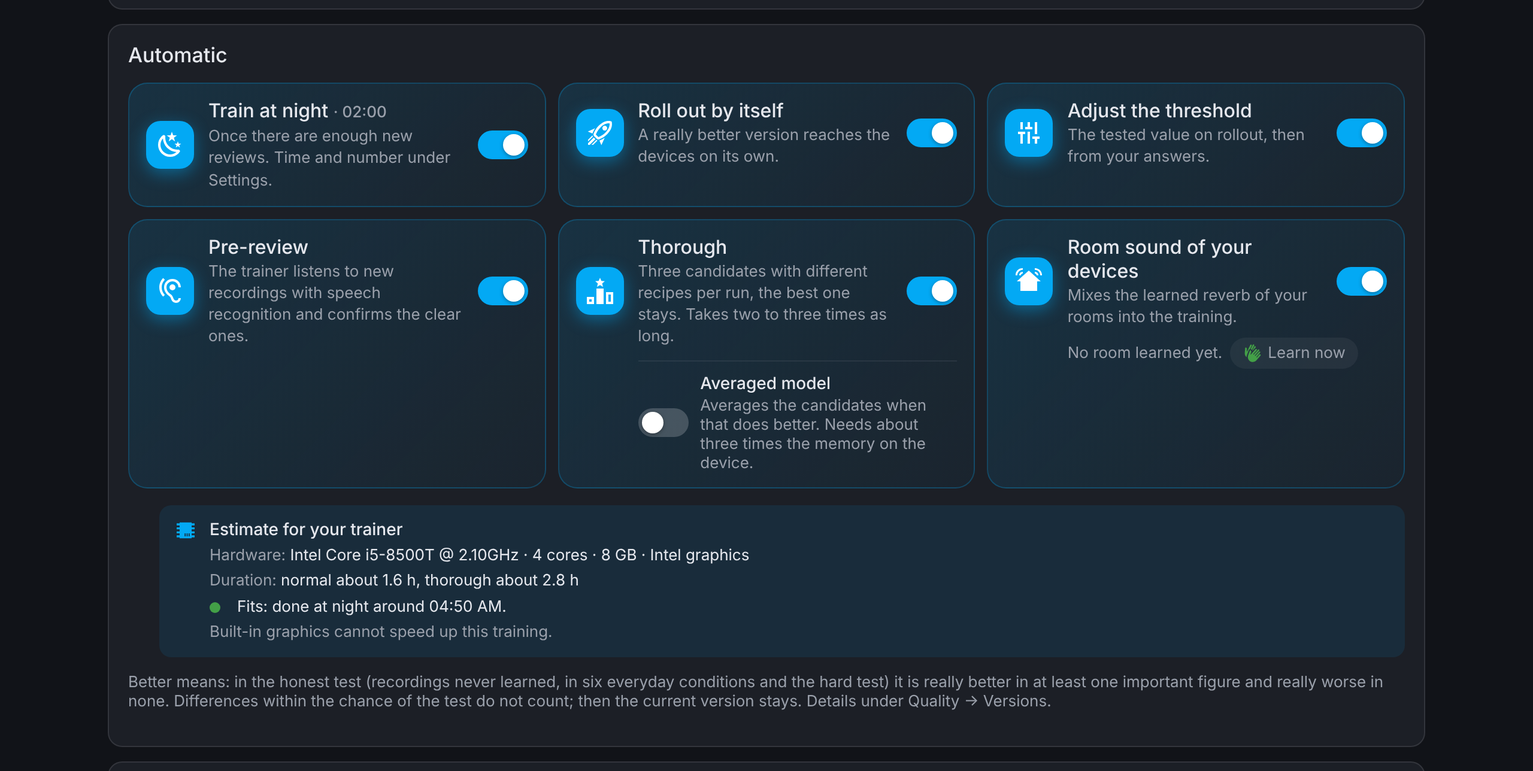
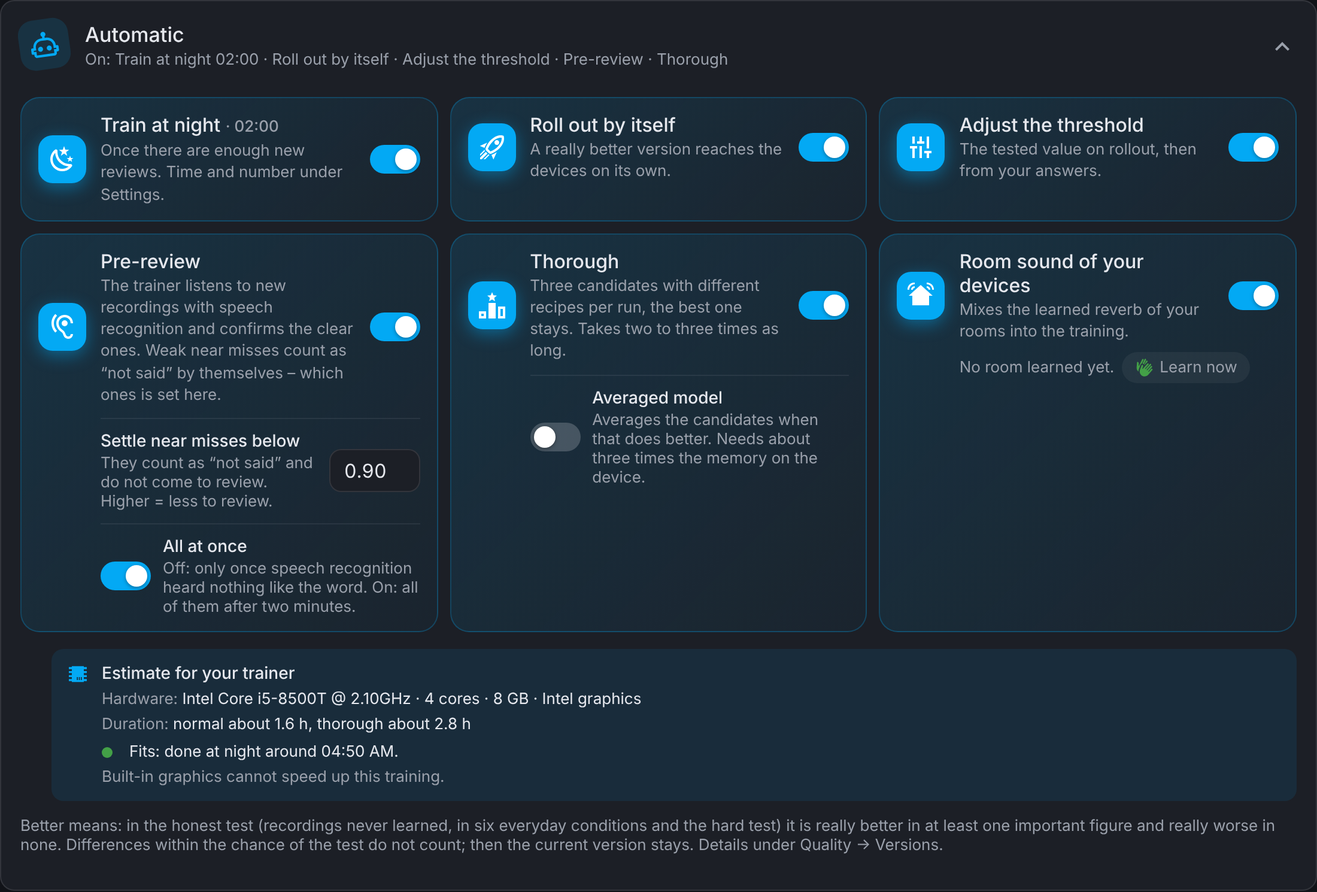
1.0.51: choose what comes to review (#66)
* 1.0.51: choose what comes to review

Two new settings per word under Training -> Automatic -> Pre-review:
- beinahe_grenze (0.50-0.99, default 0.80): near misses of a device
  below this score are settled as "not said" by the pre-review.
- beinahe_sofort: settle them all after two minutes without waiting
  for speech recognition (default off: as before, only when neither the
  word nor anything like it was heard).

Always left for the user: real wakes, a near miss right before a wake,
one in which the word itself was heard. A change applies to the waiting
recordings right away; the regular fetch catches up on fresh ones.
Both values are validated on the server like every other setting.

Claude-Session: https://claude.ai/code/session_015s6FHN9RtFzjRTkpWD3kXZ

* README: Wake Word Studio is in the HACS default list

Claude-Session: https://claude.ai/code/session_015s6FHN9RtFzjRTkpWD3kXZ

* Shorter texts for the pre-review settings, README image

Claude-Session: https://claude.ai/code/session_015s6FHN9RtFzjRTkpWD3kXZ

---------

diff --git a/custom_components/sprachmodell/frontend/sprachmodell-texte.js b/custom_components/sprachmodell/frontend/sprachmodell-texte.js
@@ -173,7 +173,7 @@ export const TEXTE = {
     nv_leer: 'Dein Wort', nv_hilfe: 'Schreib unten dein Aktivierungswort, hier erscheint es.', nv_da: 'So wird es aussehen. Die KI lernt es aus deinen Aufnahmen.', nv_erschaffen: 'Dein Aktivierungswort entsteht …',
     es_allgemein_kurz: 'Uhrzeit, Erinnerungen, Aufbewahren, Personen', es_senden_kurz: 'Geräte schicken ihre Aufwach-Aufnahmen direkt ans Studio', es_ablage_kurz: 'Wo Aufnahmen und Modelle liegen',
     ws_sammeln: 'Sammeln', ws_sammeln_wert: '{n} Aufnahmen', ws_pruefen: 'Prüfen', ws_pruefen_offen: '{n} warten auf dich', ws_pruefen_fertig: 'alles geprüft', ws_training: 'Training', ws_training_nachts: 'nachts um {u}', ws_training_hand: 'von Hand', ws_geraet: 'Auf den Geräten', ws_geraet_wert: 'v{v} auf {n} Geräten', ws_geraet_noch: 'noch kein Modell', ws_mehr: 'Wie genau?',
-    sw_nachts: 'Nachts trainieren', sw_nachts_text: 'Wenn genug neue Bewertungen da sind. Uhrzeit und Anzahl unter Einstellungen.', sw_einspielen: 'Selbst einspielen', sw_einspielen_text: 'Eine wirklich bessere Version kommt von allein auf die Geräte.', sw_schwelle: 'Schwelle selbst anpassen', sw_schwelle_text: 'Beim Einspielen der getestete Wert, danach aus deinen Antworten.', sw_vorpruefen: 'Vorprüfen', sw_vorpruefen_text: 'Der Trainer hört neue Aufnahmen mit Spracherkennung an und bestätigt die klaren. Beinahe-Treffer unter 0,80, in denen weder das Wort noch etwas Ähnliches zu hören ist, zählen selbst als „nicht gesagt“.', sw_gruendlich: 'Gründlich', sw_gruendlich_text: 'Drei Kandidaten mit verschiedenen Rezepten pro Lauf, der beste bleibt. Dauert zwei- bis dreimal so lange.', sw_mitteln: 'Gemitteltes Modell', sw_mitteln_text: 'Mittelt die Kandidaten, wenn das besser ist. Braucht etwa dreimal so viel Speicher auf dem Gerät.', sw_raumklang: 'Raumklang deiner Geräte', sw_raumklang_text: 'Mischt den angelernten Nachhall deiner Räume ins Training.',
+    sw_nachts: 'Nachts trainieren', sw_nachts_text: 'Wenn genug neue Bewertungen da sind. Uhrzeit und Anzahl unter Einstellungen.', sw_einspielen: 'Selbst einspielen', sw_einspielen_text: 'Eine wirklich bessere Version kommt von allein auf die Geräte.', sw_schwelle: 'Schwelle selbst anpassen', sw_schwelle_text: 'Beim Einspielen der getestete Wert, danach aus deinen Antworten.', sw_vorpruefen: 'Vorprüfen', sw_vorpruefen_text: 'Der Trainer hört neue Aufnahmen mit Spracherkennung an und bestätigt die klaren. Schwache Beinahe-Treffer zählen selbst als „nicht gesagt“ – welche, stellst du hier ein.', sw_beinahe_grenze: 'Beinahe-Treffer selbst erledigen unter', sw_beinahe_grenze_text: 'Sie zählen als „nicht gesagt“ und kommen nicht zur Prüfung. Höher = weniger zu prüfen.', sw_beinahe_sofort: 'Alle sofort', sw_beinahe_sofort_text: 'Aus: erst, wenn die Spracherkennung nichts Ähnliches gehört hat. An: alle nach zwei Minuten.', sw_gruendlich: 'Gründlich', sw_gruendlich_text: 'Drei Kandidaten mit verschiedenen Rezepten pro Lauf, der beste bleibt. Dauert zwei- bis dreimal so lange.', sw_mitteln: 'Gemitteltes Modell', sw_mitteln_text: 'Mittelt die Kandidaten, wenn das besser ist. Braucht etwa dreimal so viel Speicher auf dem Gerät.', sw_raumklang: 'Raumklang deiner Geräte', sw_raumklang_text: 'Mischt den angelernten Nachhall deiner Räume ins Training.',
     es_aufbewahren: 'Unbewertete Aufnahmen nach so vielen Tagen löschen', es_personen: 'Personen (mit Komma getrennt, leer = Personen aus Home Assistant)',
     es_senden_behalten_aus_kurz: 'Aufnahmen behalten ist aus', es_senden_an_wahl: 'Senden an', es_senden_ziel_aus: 'Aus (Studio holt ab)', es_senden_einrichten: 'Einrichten', es_schalter_behalten: 'Aufnahmen behalten', es_schalter_seite: 'Einrichtungsseite', es_senden_seite_ok: 'Einrichtungsseite ist an. Auf der Seite „Ask to be let in“ wählen und am Gerät bestätigen.', es_behalten_aus_frage: '„Keep wake clips“ ausschalten? Das Gerät löscht dabei seine gespeicherten Aufnahmen und sendet nichts mehr.', es_ein: 'Eingeschaltet', es_aus: 'Ausgeschaltet', es_ziel_custom: 'Auf „Custom“ gestellt. Klappt nur, wenn Adresse und Token einmal auf der Einrichtungsseite gespeichert sind.',
     es_allgemein: 'Allgemein', es_senden: 'Geräte, die Aufnahmen selbst senden', es_senden_s1: 'Beim Gerät unten auf „Einrichten“ tippen (nur im Heimnetz). Das Studio schaltet „Keep wake clips“ und die Einrichtungsseite ein und öffnet sie in einem neuen Tab.', es_senden_s2: 'Auf der Seite „Ask to be let in“ wählen und innerhalb einer Minute am Gerät bestätigen: mit Bildschirm „Allow“ tippen, ohne Bildschirm die Aktionstaste kurz drücken.', es_senden_s3: 'Unter „Voice“ → „Send wake clips to“: „Custom“ wählen, Adresse und Token von hier kopieren und einfügen, speichern.', es_senden_s4: '„Test“ drücken. Klappt es, steht das Gerät unten auf „sendet ans Studio“.', es_senden_geraete: 'Deine Geräte', es_senden_keine: 'Kein Gerät mit „Send wake clips to“ gefunden. Die Funktion gibt es ab TECHO-Firmware 1.6.43; nach dem Update erscheint das Gerät hier.', es_senden_an: 'sendet ans Studio', es_senden_aus: 'sendet nicht (wird abgeholt)', es_senden_anders: 'sendet an {z}', es_senden_offen: '{n} warten', es_senden_seite: 'Einrichtungsseite öffnen', es_senden_behalten: '„Keep wake clips“ einschalten', es_senden_behalten_aus: '„Keep wake clips“ ist aus, ohne geht nichts', es_senden_behalten_ok: 'Eingeschaltet', es_kopieren: 'Kopieren', es_kopiert: 'Kopiert',
@@ -387,7 +387,7 @@ export const TEXTE = {
     nv_leer: 'Your word', nv_hilfe: 'Type your wake word below and it appears here.', nv_da: 'This is how it will look. The AI learns it from your recordings.', nv_erschaffen: 'Your wake word is coming to life …',
     es_allgemein_kurz: 'Time, reminders, keeping, people', es_senden_kurz: 'Devices send their wake recordings straight to the studio', es_ablage_kurz: 'Where recordings and models are kept',
     ws_sammeln: 'Collect', ws_sammeln_wert: '{n} recordings', ws_pruefen: 'Review', ws_pruefen_offen: '{n} waiting for you', ws_pruefen_fertig: 'all reviewed', ws_training: 'Training', ws_training_nachts: 'at night at {u}', ws_training_hand: 'by hand', ws_geraet: 'On the devices', ws_geraet_wert: 'v{v} on {n} devices', ws_geraet_noch: 'no model yet', ws_mehr: 'How exactly?',
-    sw_nachts: 'Train at night', sw_nachts_text: 'Once there are enough new reviews. Time and number under Settings.', sw_einspielen: 'Roll out by itself', sw_einspielen_text: 'A really better version reaches the devices on its own.', sw_schwelle: 'Adjust the threshold', sw_schwelle_text: 'The tested value on rollout, then from your answers.', sw_vorpruefen: 'Pre-review', sw_vorpruefen_text: 'The trainer listens to new recordings with speech recognition and confirms the clear ones. Near misses below 0.80 in which neither the word nor anything like it is heard count as “not said” by themselves.', sw_gruendlich: 'Thorough', sw_gruendlich_text: 'Three candidates with different recipes per run, the best one stays. Takes two to three times as long.', sw_mitteln: 'Averaged model', sw_mitteln_text: 'Averages the candidates when that does better. Needs about three times the memory on the device.', sw_raumklang: 'Room sound of your devices', sw_raumklang_text: 'Mixes the learned reverb of your rooms into the training.',
+    sw_nachts: 'Train at night', sw_nachts_text: 'Once there are enough new reviews. Time and number under Settings.', sw_einspielen: 'Roll out by itself', sw_einspielen_text: 'A really better version reaches the devices on its own.', sw_schwelle: 'Adjust the threshold', sw_schwelle_text: 'The tested value on rollout, then from your answers.', sw_vorpruefen: 'Pre-review', sw_vorpruefen_text: 'The trainer listens to new recordings with speech recognition and confirms the clear ones. Weak near misses count as “not said” by themselves – which ones is set here.', sw_beinahe_grenze: 'Settle near misses below', sw_beinahe_grenze_text: 'They count as “not said” and do not come to review. Higher = less to review.', sw_beinahe_sofort: 'All at once', sw_beinahe_sofort_text: 'Off: only once speech recognition heard nothing like the word. On: all of them after two minutes.', sw_gruendlich: 'Thorough', sw_gruendlich_text: 'Three candidates with different recipes per run, the best one stays. Takes two to three times as long.', sw_mitteln: 'Averaged model', sw_mitteln_text: 'Averages the candidates when that does better. Needs about three times the memory on the device.', sw_raumklang: 'Room sound of your devices', sw_raumklang_text: 'Mixes the learned reverb of your rooms into the training.',
     es_aufbewahren: 'Delete unreviewed recordings after this many days', es_personen: 'People (comma separated, empty = people from Home Assistant)',
     es_senden_behalten_aus_kurz: 'Keep wake clips is off', es_senden_an_wahl: 'Send to', es_senden_ziel_aus: 'Off (Studio collects)', es_senden_einrichten: 'Set up', es_schalter_behalten: 'Keep wake clips', es_schalter_seite: 'Setup page', es_senden_seite_ok: 'Setup page is on. On the page choose "Ask to be let in" and confirm at the device.', es_behalten_aus_frage: 'Turn off "Keep wake clips"? The device deletes its saved clips and stops sending.', es_ein: 'Turned on', es_aus: 'Turned off', es_ziel_custom: 'Set to "Custom". This works once the address and token are saved on the setup page.',
     es_allgemein: 'General', es_senden: 'Devices that send their recordings', es_senden_s1: 'Tap "Set up" next to the device below (home network only). The Studio turns on "Keep wake clips" and the setup page and opens it in a new tab.', es_senden_s2: 'On the page choose "Ask to be let in" and confirm at the device within a minute: tap "Allow" on a device with a screen, press the action button briefly on one without.', es_senden_s3: 'Under "Voice" → "Send wake clips to": choose "Custom", copy the address and token from here, paste them, save.', es_senden_s4: 'Press "Test". When it works, the device below shows "sends to the Studio".', es_senden_geraete: 'Your devices', es_senden_keine: 'No device with "Send wake clips to" found. It comes with TECHO firmware 1.6.43; after the update the device shows up here.', es_senden_an: 'sends to the Studio', es_senden_aus: 'not sending (collected)', es_senden_anders: 'sends to {z}', es_senden_offen: '{n} waiting', es_senden_seite: 'Open setup page', es_senden_behalten: 'Turn on "Keep wake clips"', es_senden_behalten_aus: '"Keep wake clips" is off, nothing is sent without it', es_senden_behalten_ok: 'Turned on', es_kopieren: 'Copy', es_kopiert: 'Copied',

diff --git a/custom_components/sprachmodell/frontend/sprachmodell-panel.js b/custom_components/sprachmodell/frontend/sprachmodell-panel.js
@@ -10,7 +10,7 @@ const TEXTE_DA = import(`./sprachmodell-texte.js${new URL(import.meta.url).searc
   .then((m) => { TEXTE = m.TEXTE; SPRACHNAMEN = m.SPRACHNAMEN; })
   .catch((e) => console.error('Wake Word Studio: texts could not be loaded', e));
 
-const VERSION = '1.0.50';
+const VERSION = '1.0.51';
 const KURVE_VERSIONEN = 12; // how many of the newest versions the curve shows
 const REPO = 'https://github.com/Wadim-dev/WakeWordStudio_ha';
 const BILD = 'ghcr.io/wadim-dev/wake-word-studio-trainer:latest';
@@ -421,7 +421,7 @@ input.schieber::after{content:'';position:absolute;top:3px;left:3px;width:18px;h
 input.schieber:checked{background:var(--primary-color)}input.schieber:checked::after{transform:translateX(18px)}
 input.schieber:disabled{opacity:.45;cursor:default}
 .unter-schalter{display:flex;gap:10px;align-items:center;margin:10px 0 0 52px;padding-top:10px;border-top:1px solid rgba(var(--rgb-primary-text-color,0,0,0),.08);cursor:pointer;transition:opacity .3s}
-.unter-schalter>span{display:flex;flex-direction:column;gap:2px;flex:1}.unter-schalter b{font-weight:500;font-size:14px}.unter-schalter.aus{opacity:.45}
+.unter-schalter>span{display:flex;flex-direction:column;gap:2px;flex:1}.unter-schalter b{font-weight:500;font-size:14px}.unter-schalter.aus{opacity:.45}.unter-feld{cursor:default}.unter-feld input.uf-wert{width:76px;text-align:center;font:inherit;font-size:16px;font-variant-numeric:tabular-nums;padding:7px 6px;border-radius:10px;border:1px solid var(--divider-color,rgba(127,127,127,.35));background:var(--card-background-color,transparent);color:var(--primary-text-color)}.unter-feld input.uf-wert{flex:none}
 .kachel-info{display:flex;align-items:center;gap:6px;flex-wrap:wrap;margin:8px 0 0 52px}.kachel-info ha-icon{--mdc-icon-size:16px;color:var(--success-color,#4caf50)}
 @media (max-width:500px){.schalter-raster{grid-template-columns:1fr}.unter-schalter,.kachel-info{margin-left:0}}
 @media (prefers-reduced-motion:reduce){.kschalter-ikon{animation:none!important}}
@@ -2294,7 +2294,7 @@ ${this._klapp('k_auto', 'mdi:robot-outline', this.t('t_auto'), this._autoKurz(e,
 ${this._kachelSchalter('nachts', 'mdi:weather-night', 'sw_nachts', 'sw_nachts_text', e.nachts, { zusatz: String(d.einstellungen.uhrzeit).slice(0, 5) })}
 ${this._kachelSchalter('automatisch_einspielen', 'mdi:rocket-launch-outline', 'sw_einspielen', 'sw_einspielen_text', e.automatisch_einspielen)}
 ${this._kachelSchalter('schwelle_automatisch', 'mdi:tune-vertical', 'sw_schwelle', 'sw_schwelle_text', e.schwelle_automatisch)}
-${this._kachelSchalter('vorpruefen', 'mdi:ear-hearing', 'sw_vorpruefen', 'sw_vorpruefen_text', e.vorpruefen)}
+${this._kachelSchalter('vorpruefen', 'mdi:ear-hearing', 'sw_vorpruefen', 'sw_vorpruefen_text', e.vorpruefen, { unter: `<label class="unter-schalter unter-feld ${e.vorpruefen ? '' : 'aus'}"><span><b>${esc(this.t('sw_beinahe_grenze'))}</b><span class="klein">${esc(this.t('sw_beinahe_grenze_text'))}</span></span><input type="number" class="uf-wert" min="0.5" max="0.99" step="0.01" data-wopt="beinahe_grenze" value="${num(e.beinahe_grenze, 0.8).toFixed(2)}" ${this._admin && e.vorpruefen ? '' : 'disabled'}></label><label class="unter-schalter ${e.vorpruefen ? '' : 'aus'}"><input type="checkbox" class="schieber" data-wopt="beinahe_sofort" ${e.beinahe_sofort ? 'checked' : ''} ${this._admin && e.vorpruefen ? '' : 'disabled'}><span><b>${esc(this.t('sw_beinahe_sofort'))}</b><span class="klein">${esc(this.t('sw_beinahe_sofort_text'))}</span></span></label>` })}
 ${this._kachelSchalter('gruendlich', 'mdi:podium-gold', 'sw_gruendlich', 'sw_gruendlich_text', e.gruendlich, { unter: `<label class="unter-schalter ${e.gruendlich ? '' : 'aus'}"><input type="checkbox" class="schieber" data-wopt="mitteln" ${e.mitteln ? 'checked' : ''} ${this._admin && e.gruendlich ? '' : 'disabled'}><span><b>${esc(this.t('sw_mitteln'))}</b><span class="klein">${esc(this.t('sw_mitteln_text'))}</span></span></label>` })}
 ${this._raumSchalter(e)}
 </div>
@@ -3376,13 +3376,19 @@ ${geraete.length ? `<h3 style="margin:16px 0 8px">${esc(this.t('es_senden_geraet
     }
     try {
       if (t.dataset.wopt) {
+        if (t.type === 'number') {
+          // a figure of the word (limit of the pre-review): an empty or out-of-range field is never sent
+          if (t.value === '' || !t.validity.valid) { t.value = t.defaultValue; this._meldung(this.t('ging_nicht', { f: this.t('f_einstellung_ungueltig') })); return; }
+          await this._api('POST', 'aktion', { aktion: 'wort_aendern', wort: this._wortId, einstellungen: { [t.dataset.wopt]: Number(t.value) } });
+          t.value = Number(t.value).toFixed(2); t.defaultValue = t.value;
+          this._meldung(this.t('gespeichert')); this._laden();
+          return;
+        }
         const kachel = t.closest('.kschalter-kopf') && t.closest('.kschalter');
         if (kachel) { kachel.classList.toggle('an', t.checked); kachel.classList.toggle('neu', t.checked); }
-        if (t.dataset.wopt === 'gruendlich' && kachel) {
-          const u = kachel.querySelector('.unter-schalter'), m = u && u.querySelector('input');
-          if (u) u.classList.toggle('aus', !t.checked); if (m) m.disabled = !t.checked || !this._admin;
-        }
+        if (kachel) kachel.querySelectorAll('.unter-schalter').forEach((u) => { u.classList.toggle('aus', !t.checked); const m = u.querySelector('input'); if (m) m.disabled = !t.checked || !this._admin; });
         await this._api('POST', 'aktion', { aktion: 'wort_aendern', wort: this._wortId, einstellungen: { [t.dataset.wopt]: t.checked } });
+        if (['vorpruefen', 'beinahe_sofort'].includes(t.dataset.wopt)) this._laden();
         this._meldung(this.t('gespeichert'));
       } else if (t.dataset.ttaste) {
         await this._api('POST', 'aktion', { aktion: 'trainer', trainer: t.dataset.ttaste, taste: t.value });

diff --git a/tests/test_pruefung.py b/tests/test_pruefung.py
@@ -4,6 +4,7 @@ from __future__ import annotations
 
 import json
 from typing import Any
+from unittest.mock import patch
 
 from homeassistant.core import HomeAssistant
 from homeassistant.setup import async_setup_component
@@ -207,3 +208,77 @@ async def test_null_tage_loescht_keine_aufnahmen(hass: HomeAssistant, geladen) -
         assert {"frisch", "sechs"} <= set(w.speicher.daten["aufnahmen"])
     assert w.speicher.aufraeumen(0) == 0 and w.speicher.aufraeumen(-3) == 0
     assert {"frisch", "sechs"} <= set(w.speicher.daten["aufnahmen"])
+
+
+@pytest.mark.parametrize("wert", [0.49, 1.0, 0, -1, "0.8", None, True, float("nan"), float("inf"), MARKUP])
+def test_beinahe_grenze_abgelehnt(wert: Any) -> None:
+    with pytest.raises(pruefung.Ungueltig):
+        pruefung.wort({"beinahe_grenze": wert})
+
+
+def test_beinahe_grenze_erlaubt() -> None:
+    assert pruefung.wort({"beinahe_grenze": 0.9, "beinahe_sofort": True}) == {"beinahe_grenze": 0.9, "beinahe_sofort": True}
+    assert pruefung.wort({"beinahe_grenze": 0.5}) == {"beinahe_grenze": 0.5} and pruefung.wort({"beinahe_grenze": 0.99}) == {"beinahe_grenze": 0.99}
+    assert pruefung.wort({"beinahe_grenze": 0.8749}) == {"beinahe_grenze": 0.87}
+    with pytest.raises(pruefung.Ungueltig):
+        pruefung.wort({"beinahe_sofort": "ja"})
+    assert pruefung.gespeichert_wort({"beinahe_grenze": 7, "beinahe_sofort": 1}) == {}
+
+
+async def test_was_zur_pruefung_kommt(hass: HomeAssistant, geladen) -> None:
+    """Limit and "all at once" of the pre-review decide which near misses are left for the user."""
+    from datetime import UTC, datetime, timedelta
+
+    from .conftest import wav
+
+    z = geladen.runtime_data
+    w = await z.wort_neu({"wort": "Alisa"})
+    alt = (datetime.now(UTC) - timedelta(minutes=30)).isoformat()
+
+    def neu(aid: str, **mehr: Any) -> None:
+        gehoert = mehr.pop("gehoert", None)
+        a = w.speicher.aufnahme_neu({"id": aid, "quelle": "echo", "echo": "Kitchen", "art": "nearmiss", "zeit": alt, **mehr}, wav())
+        if gehoert is not None:
+            w.speicher.daten["aufnahmen"][a["id"]]["gehoert"] = gehoert
+
+    neu("tief", score=0.61)                                  # not listened to yet
+    neu("tief_nichts", score=0.64, gehoert="")               # listened, nothing heard
+    neu("tief_aehnlich", score=0.7, gehoert="Lisa komm")     # sounds like the word
+    neu("tief_wort", score=0.7, gehoert="Alisa licht an")    # the word itself was heard
+    neu("mittel", score=0.85)
+    neu("hoch", score=0.97)
+    neu("frisch", score=0.6, zeit=datetime.now(UTC).isoformat())
+    neu("ohne_wert")
+    neu("vor_wake", score=0.6, zeit=(datetime.now(UTC) - timedelta(minutes=10)).isoformat())
+    w.speicher.aufnahme_neu({"id": "wake", "quelle": "echo", "echo": "Kitchen", "art": "wake", "score": 0.6,
+                             "zeit": (datetime.now(UTC) - timedelta(minutes=10) + timedelta(seconds=5)).isoformat()}, wav())
+    w.speicher.aufnahme_neu({"id": "abbruch", "quelle": "echo", "echo": "Kitchen", "art": "mistake", "score": 0.6, "zeit": alt}, wav())
+    w.speicher.aufnahme_neu({"id": "eigene", "quelle": "browser", "art": "nearmiss", "score": 0.3, "zeit": alt}, wav())
+    w.speicher.vorschlaege()
+    A = w.speicher.daten["aufnahmen"]
+
+    def auto() -> set[str]:
+        return {i for i, a in A.items() if a.get("auto") and a.get("urteil") == "kein_wort"}
+
+    # default: only what speech recognition cleared
+    assert await hass.async_add_executor_job(w.beinahe_nachziehen) == 1 and auto() == {"tief_nichts"}
+    # a higher limit alone still waits for speech recognition
+    await z.wort_aendern(w.id, {"beinahe_grenze": 0.9})
+    assert auto() == {"tief_nichts"}
+    # all at once: everything below the limit, except fresh ones, the one before a wake and the word itself
+    await z.wort_aendern(w.id, {"beinahe_sofort": True})
+    assert auto() == {"tief_nichts", "tief", "tief_aehnlich", "mittel"}
+    assert not A["hoch"].get("urteil") and not A["frisch"].get("urteil") and not A["vor_wake"].get("urteil")
+    assert not A["wake"].get("urteil") and not A["abbruch"].get("urteil") and not A["eigene"].get("urteil") and not A["ohne_wert"].get("urteil")
+    assert not A["tief_wort"].get("urteil")
+    # the fresh one follows once it is two minutes old (the regular fetch catches up)
+    A["frisch"]["zeit"] = (datetime.now(UTC) - timedelta(minutes=3)).isoformat()
+    with patch("custom_components.sprachmodell.sammler.Sammler.holen", return_value=0):
+        assert await z.jetzt_holen()
+    assert "frisch" in auto()
+    # your own answer is never touched, and switching pre-review off stops it
+    w.speicher.urteilen(["mittel"], "wort", None)
+    await z.wort_aendern(w.id, {"vorpruefen": False, "beinahe_grenze": 0.99})
+    assert not A["hoch"].get("urteil") and A["mittel"]["urteil"] == "wort" and "auto" not in A["mittel"]
+    await z.wort_aendern(w.id, {"vorpruefen": True})
+    assert "hoch" in auto() and A["mittel"]["urteil"] == "wort"

diff --git a/custom_components/sprachmodell/speicher.py b/custom_components/sprachmodell/speicher.py
@@ -27,7 +27,7 @@ import wave
 import zipfile
 
 from .bausteine import KeinModell, fehlende_bausteine
-from .const import BEINAHE_AUTO_UNTER, KEIN_WORT, NAME, REPO, URTEILE, VERWORFEN, WORT
+from .const import BEINAHE_AUTO_UNTER, BEINAHE_SOFORT_NACH_S, KEIN_WORT, NAME, REPO, URTEILE, VERWORFEN, WORT
 
 DATEI = "daten.json"
 VERSION = 1
@@ -131,13 +131,22 @@ def wort_aehnlich(gehoert: str, wort: str) -> bool:
     return any(difflib.SequenceMatcher(None, w, x).ratio() >= 0.6 for x in kandidaten)
 
 
-def beinahe_nicht(a: dict[str, Any], wort: str) -> bool:
-    """An open near miss from a device, well below the threshold, in which speech recognition heard neither the
-    word nor anything like it: not the word (pre-review marks it auto, you can change it in History)."""
+def beinahe_nicht(a: dict[str, Any], wort: str, grenze: float = BEINAHE_AUTO_UNTER, sofort: bool = False) -> bool:
+    """An open near miss from a device with a score below the limit that the pre-review settles as "not said"
+    (marked auto, you can change it in History).
+
+    Default: only once speech recognition listened and heard neither the word nor anything like it.
+    sofort: without waiting for speech recognition, also when something similar was heard. Left for you even
+    then: a near miss right before a real wake (the word was probably said), one in which the word itself was
+    heard, and one so fresh that the wake after it may not have arrived yet."""
     score = a.get("score")
-    return (not a.get("urteil") and a.get("quelle") == "echo" and a.get("art") == "nearmiss"
-            and isinstance(score, int | float) and score < BEINAHE_AUTO_UNTER and "gehoert" in a
-            and not wort_gehoert(a["gehoert"], wort) and not wort_aehnlich(a["gehoert"], wort))
+    if (a.get("urteil") or a.get("quelle") != "echo" or a.get("art") != "nearmiss"
+            or isinstance(score, bool) or not isinstance(score, int | float) or not score < grenze):
+        return False
+    if sofort:
+        return (a.get("grund") != "verpasst" and not wort_gehoert(a.get("gehoert") or "", wort)
+                and time.time() - _zeit(a.get("zeit")) >= BEINAHE_SOFORT_NACH_S)
+    return "gehoert" in a and not wort_gehoert(a["gehoert"], wort) and not wort_aehnlich(a["gehoert"], wort)
 
 
 def wav_dauer(daten: bytes) -> float:
@@ -339,7 +348,8 @@ class Speicher:
         offen.sort(key=lambda a: _zeit(a["zeit"]), reverse=True)
         return [a["id"] for a in offen[:anzahl]]
 
-    def gehoert_setzen(self, ergebnisse: dict[str, str], wort: str, bestaetigen: bool) -> int:
+    def gehoert_setzen(self, ergebnisse: dict[str, str], wort: str, bestaetigen: bool,
+                       grenze: float = BEINAHE_AUTO_UNTER, sofort: bool = False) -> int:
         """Store what the speech recognition heard. With bestaetigen: an open recording in which the word was
         clearly heard counts as "said the word" (marked auto, so you can see and change it). Returns how many."""
         n = 0
@@ -353,14 +363,14 @@ class Speicher:
                     a["urteil"], a["bewertet"], a["auto"] = WORT, jetzt(), True
                     n += 1
             self.speichern()
-        return n + (self.beinahe_nachziehen(wort) if bestaetigen else 0)
+        return n + (self.beinahe_nachziehen(wort, grenze, sofort) if bestaetigen else 0)
 
-    def beinahe_nachziehen(self, wort: str) -> int:
-        """Mark open low near misses without the word as "not said" (auto). Returns how many."""
+    def beinahe_nachziehen(self, wort: str, grenze: float = BEINAHE_AUTO_UNTER, sofort: bool = False) -> int:
+        """Mark open near misses below the limit as "not said" (auto), see beinahe_nicht. Returns how many."""
         n = 0
         with self._sperre:
             for a in self.daten["aufnahmen"].values():
-                if beinahe_nicht(a, wort):
+                if beinahe_nicht(a, wort, grenze, sofort):
                     a["urteil"], a["bewertet"], a["auto"] = KEIN_WORT, jetzt(), True
                     n += 1
             if n:

diff --git a/custom_components/sprachmodell/zentrale.py b/custom_components/sprachmodell/zentrale.py
@@ -36,6 +36,9 @@ from homeassistant.util import slugify
 from . import pruefung
 from .bausteine import KeinModell, fehlende_bausteine
 from .const import (
+    BEINAHE_AUTO_UNTER,
+    BEINAHE_GRENZE_MAX,
+    BEINAHE_GRENZE_MIN,
     BILD_MANIFEST,
     BILD_PRUEFEN_S,
     BILD_TOKEN,
@@ -211,6 +214,20 @@ class Wort:
         """Knoten -> Platz ("1"/"2")."""
         return {str(k): str(v) for k, v in (self.cfg.get("geraete") or {}).items() if str(v) in ("1", "2")}
 
+    def beinahe_grenze(self) -> float:
+        """Near misses below this score are settled by the pre-review (setting of the word, kept within range)."""
+        try:
+            return max(BEINAHE_GRENZE_MIN, min(BEINAHE_GRENZE_MAX, float(self.cfg.get("beinahe_grenze"))))  # type: ignore[arg-type]
+        except (TypeError, ValueError):
+            return BEINAHE_AUTO_UNTER
+
+    def beinahe_nachziehen(self) -> int:
+        """Let the pre-review settle the near misses the settings of this word leave to it. Writes to disk when
+        something changed: call it in the executor. Returns how many."""
+        if not self.cfg.get("vorpruefen"):
+            return 0
+        return self.speicher.beinahe_nachziehen(self.wort, self.beinahe_grenze(), bool(self.cfg.get("beinahe_sofort")))
+
     def aktive_version(self) -> dict[str, Any] | None:
         nr = self.speicher.daten.get("aktiv")
         return self.speicher.version(nr) if nr else None
@@ -297,8 +314,7 @@ class Zentrale:
             wort = Wort(self, wid, cfg)
             wort.speicher.laden()
             wort.speicher.vorschlaege()
-            if wort.cfg.get("vorpruefen"):
-                wort.speicher.beinahe_nachziehen(wort.wort)
+            wort.beinahe_nachziehen()
             self.woerter[wid] = wort
         for tid, t in (daten.get("trainer") or {}).items():
             try:
@@ -667,6 +683,10 @@ class Zentrale:
                 wort.cfg[k] = v
         self._geraete_freiraeumen(wort)
         await self.hass.async_add_executor_job(self.speichern)
+        if {"vorpruefen", "beinahe_grenze", "beinahe_sofort"} & set(geprueft):
+            # what comes to review changed: apply it to what is waiting right away
+            if await self.hass.async_add_executor_job(wort.beinahe_nachziehen):
+                self.erinnern()
         await self._nach_wortaenderung()
         return wort
 
@@ -800,7 +820,14 @@ class Zentrale:
         except Exception:
             _LOGGER.exception("Fetching recordings failed")
             return False
-        if neu:
+        # near misses the pre-review settles at once wait two minutes first (a wake may follow): catch up here
+        erledigt = 0
+        for wort in list(self.woerter.values()):
+            if wort.cfg.get("vorpruefen") and wort.cfg.get("beinahe_sofort"):
+                erledigt += await self.hass.async_add_executor_job(wort.beinahe_nachziehen)
+        if erledigt:
+            self.erinnern()
+        if neu or erledigt:
             self.geaendert()
         return True
 

diff --git a/custom_components/sprachmodell/const.py b/custom_components/sprachmodell/const.py
@@ -48,6 +48,12 @@ STANDARD_WORT = {
     "schwelle_automatisch": True,
     # Speech recognition on the trainer listens to new device recordings and confirms those with the word
     "vorpruefen": True,
+    # What the pre-review settles by itself: near misses of a device with a score below this limit count as
+    # "not said" (marked auto) ...
+    "beinahe_grenze": 0.8,
+    # ... False: only once speech recognition heard neither the word nor anything like it. True: all of them at
+    # once, without waiting for speech recognition (for words with plenty of reviewed recordings)
+    "beinahe_sofort": False,
     # "Thorough": train three candidates per run and keep the best (a run takes about two to three times as long)
     "gruendlich": False,
     # With "thorough": also one model that averages the candidates (fewer false wakes, but it needs about three
@@ -126,6 +132,11 @@ SCHWELLE_MIN = 0.5  # lowest threshold you can set by hand
 VORPRUEFEN_JE_MAL = 40
 # pre-review: a near miss below this score in which speech recognition did not hear the word counts as "not said"
 BEINAHE_AUTO_UNTER = 0.8
+# range of the setting "settle near misses below" (the highest equals the highest threshold a device can have)
+BEINAHE_GRENZE_MIN = 0.5
+BEINAHE_GRENZE_MAX = 0.99
+# with "all at once": a near miss waits this long first, a wake right after it means the word was said
+BEINAHE_SOFORT_NACH_S = 120
 
 # Version of the trainer this studio works with (sprachmodell_trainer/: config.yaml and trainer/__init__.py). It only
 # moves when the trainer itself changes, so a release that only changes the studio does not ask for a trainer restart.

diff --git a/custom_components/sprachmodell/pruefung.py b/custom_components/sprachmodell/pruefung.py
@@ -10,7 +10,7 @@ import math
 import re
 from typing import Any
 
-from .const import SPRACHEN, STANDARD_WORT, STANDARD_ZENTRALE
+from .const import BEINAHE_GRENZE_MAX, BEINAHE_GRENZE_MIN, SPRACHEN, STANDARD_WORT, STANDARD_ZENTRALE
 
 UHRZEIT = re.compile(r"([01]\d|2[0-3]):([0-5]\d)(?::[0-5]\d)?")
 FARBE = re.compile(r"#(?:[0-9a-fA-F]{3}|[0-9a-fA-F]{6})")
@@ -148,6 +148,10 @@ def wort(neu: dict[str, Any]) -> dict[str, Any]:
             aus[k] = dict(v)
         elif k == "farbe":
             aus[k] = farbe(v)
+        elif k == "beinahe_grenze":
+            if isinstance(v, bool) or not isinstance(v, int | float) or not BEINAHE_GRENZE_MIN <= v <= BEINAHE_GRENZE_MAX:
+                raise Ungueltig  # NaN fails the comparison too
+            aus[k] = round(float(v), 2)
         elif k in SCHALTER_WORT:
             aus[k] = _schalter(v)
     return aus

diff --git a/custom_components/sprachmodell/api.py b/custom_components/sprachmodell/api.py
@@ -711,7 +711,7 @@ class TrainerGehoert(_TrainerAnsicht):
         hass = request.app[KEY_HASS]
         n = await hass.async_add_executor_job(
             wort.speicher.gehoert_setzen, {str(k)[:80]: str(v)[:300] for k, v in list(ergebnisse.items())[:2000]}, wort.wort,
-            bool(wort.cfg.get("vorpruefen")))
+            bool(wort.cfg.get("vorpruefen")), wort.beinahe_grenze(), bool(wort.cfg.get("beinahe_sofort")))
         z.geaendert()
         z.erinnern()
         return self.json({"bestaetigt": n})

diff --git a/CHANGELOG.md b/CHANGELOG.md
@@ -1,5 +1,13 @@
 # Changelog
 
+## 1.0.51
+- **You decide what comes to review.** Under *Training → Automatic → Pre-review* there are two new settings per word:
+  - *Settle near misses below this score* (0.50 to 0.99, default 0.80 as before): near misses of a device below it count as *not said* by themselves (marked *auto*, they still teach the model as negatives, and you can change them in *History → Reviewed*). Higher means less to review.
+  - *All at once, without speech recognition*: off (as before) a near miss is only settled once speech recognition listened and heard neither the word nor anything like it, so it waits while the trainer is busy. On, every near miss below the score is settled after two minutes. Useful once a word has plenty of reviewed recordings.
+- Always left for you: recordings where a device really woke up, a near miss right before a wake (the word was probably said) and one in which the word itself was heard.
+- A change applies to the waiting recordings right away.
+- No trainer update needed.
+
 ## 1.0.50
 Hardening after the HACS review. Nothing changes in how you use the studio.
 - **Settings are checked before they are stored.** The server now validates every setting of a request (time as HH:MM, whole numbers within the ranges the panel shows, colour as a hex colour, switches as on/off, names and device lists with length limits) and refuses the whole request if one value is wrong, so nothing half-valid is ever stored. An emptied time field can no longer stop the integration from loading, and an emptied *keep unreviewed recordings* field can no longer become 0 days and delete recordings: the clean-up never uses fewer than 7 days, and settings stored by an older version fall back to the default when Home Assistant starts. The panel does not send an empty or out-of-range field at all; the old value comes back with a note.
